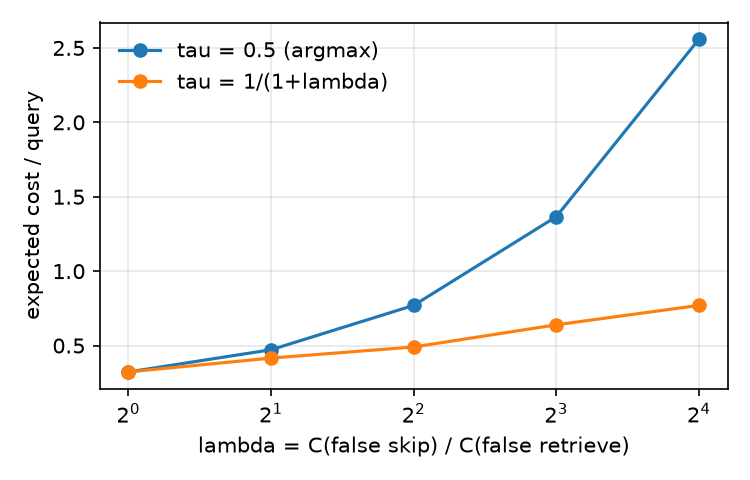
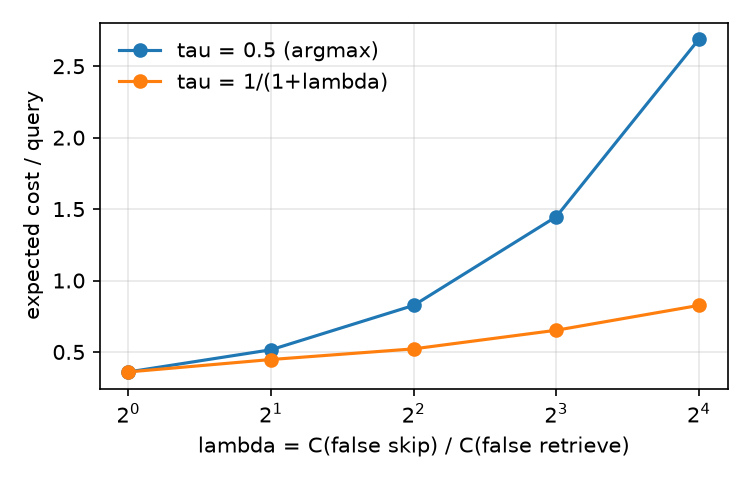
Final results: two judgments per probe, re-run arms, pairwise quality
- Labels now use the mean of two judgments for all 805 probes (judge
  self-consistency 86.3%; human vs judge kappa 0.18 -> 0.26; required 58.8%).
  Tier 1 retrained (logreg test AUC 0.671; LightGBM and no-S3 variants).
- oracle, amic and amic_lam1 re-run on the new labels (previous runs archived
  locally); memory tokens vs always: amic -54%, amic_lam1 -66%, oracle -70%.
- Pairwise judging vs always complete for amic, amic_lam1, oracle and never
  (483 comparisons each, 3 seeds). Report adds a per-route breakdown: SHALLOW is
  at parity with DEEP, SKIP loses ~70% even for oracle skips.
- judge_pairwise: raise max_tokens to 1024 (reasoning tokens truncated the JSON
  at 300) and include the raw reply in unparseable errors.

diff --git a/src/amic/eval/report.py b/src/amic/eval/report.py
@@ -500,19 +500,46 @@ def section_quality() -> str:
         )
     if not rows:
         return ""
-    return (
-        "\n".join(
-            [
-                "## 7. Response quality: pairwise LLM judge vs `always` (test split)",
-                "",
-                "Mean ± sd across tutor sampling seeds (T = 0.7). Identical answers count as ties without a "
-                "judge call. Fabrication rates are over judged (non-identical) pairs.",
-                "",
-                pd.DataFrame(rows).to_markdown(index=False),
-            ]
-        )
-        + "\n"
-    )
+    by_route = []
+    for d in sorted(Path("runs").glob("*/pairwise_vs_always.jsonl")):
+        pw = pd.read_json(d, lines=True)
+        if pw.empty or "route" not in pw:
+            continue
+        for route, g in pw.groupby("route"):
+            vc = g.result.value_counts(normalize=True)
+            by_route.append(
+                {
+                    "run": d.parent.name,
+                    "route chosen": route,
+                    "n": len(g),
+                    "win": vc.get("win", 0.0),
+                    "tie": vc.get("tie", 0.0),
+                    "loss": vc.get("loss", 0.0),
+                    "identical_to_always": g.identical.mean(),
+                }
+            )
+    lines = [
+        "## 7. Response quality: pairwise LLM judge vs `always` (test split)",
+        "",
+        "Mean ± sd across tutor sampling seeds (T = 0.7). Identical answers count as ties without a "
+        "judge call. Fabrication rates are over judged (non-identical) pairs.",
+        "",
+        pd.DataFrame(rows).to_markdown(index=False),
+    ]
+    if by_route:
+        lines += [
+            "",
+            "### By the route each run chose (all seeds pooled)",
+            "",
+            "`always` routes every query DEEP, so a DEEP choice reproduces its answer (tie). The "
+            "SHALLOW and SKIP rows are where the runs differ from `always`.",
+            "",
+            _fmt(
+                pd.DataFrame(by_route),
+                pct=["win", "tie", "loss", "identical_to_always"],
+            ),
+        ]
+    return "\n".join(lines) + "\n"
 
 
 def main() -> None:

diff --git a/scripts/judge_pairwise.py b/scripts/judge_pairwise.py
@@ -122,13 +122,13 @@ def main() -> None:
                 a=ra,
                 b=rb,
             )
+            raw = ""
             for _ in range(3):
                 try:
-                    j = json.loads(
-                        llm.chat(
-                            [{"role": "user", "content": prompt}], json_mode=True, max_tokens=300
-                        ).text
-                    )
+                    raw = llm.chat(
+                        [{"role": "user", "content": prompt}], json_mode=True, max_tokens=1024
+                    ).text
+                    j = json.loads(raw)
                     if isinstance(j, list) and len(j) == 1 and isinstance(j[0], dict):
                         j = j[0]  # the judge occasionally wraps its object in a list
                     w = str(j["winner"]).strip().upper()
@@ -138,7 +138,7 @@ def main() -> None:
                 except (ValueError, KeyError, TypeError):
                     continue
             else:
-                raise RuntimeError(f"{run} {pid}: unparseable")
+                raise RuntimeError(f"{run} {pid}: unparseable: {raw[:300]!r}")
             result = "tie" if w == "TIE" else ("win" if (w == "A") == run_is_a else "loss")
             fa, fb = bool(j.get("fabricated_A")), bool(j.get("fabricated_B"))
             return {

diff --git a/docs/results/main.md b/docs/results/main.md
@@ -4,19 +4,19 @@ _Generated by `python -m amic.eval.report`. Every number comes from this reposit
 
 Education set: 40 synthetic learners, 805 probes; split by learner ({'train': 484, 'test': 161, 'val': 160}). Counterfactual label: memory-required iff the best memory-backed answer meets the student's need better than the no-memory answer by >= 1 point (judge `needs_met`, 1-5, mean of 2 judgments; a correct generic reply to a self-contained question is not penalised).
 
-Memory-required: **64.0%** (personalisation-inclusive variant 70.2%). Depth among required: {'SHALLOW': 365, 'DEEP': 150}. Fabricated-history rate of the no-memory answer: 26.3% (SHALLOW 3.8%, DEEP 2.5%).
+Memory-required: **58.8%** (personalisation-inclusive variant 65.1%). Depth among required: {'SHALLOW': 363, 'DEEP': 110}. Fabricated-history rate of the no-memory answer: 26.2% (SHALLOW 4.0%, DEEP 2.4%).
 
 | category          |   n | required   | personal   |
 |:------------------|----:|:-----------|:-----------|
-| explicit_recall   | 160 | 90.6%      | 93.1%      |
-| general_covered   | 121 | 37.2%      | 51.2%      |
-| general_new       | 124 | 41.1%      | 50.0%      |
-| implicit_personal | 160 | 73.1%      | 76.2%      |
-| lexical_trap      |  80 | 51.2%      | 62.5%      |
-| m0_followup       |  80 | 55.0%      | 61.3%      |
-| personalize       |  80 | 90.0%      | 88.8%      |
+| explicit_recall   | 160 | 88.1%      | 91.2%      |
+| general_covered   | 121 | 27.3%      | 38.8%      |
+| general_new       | 124 | 34.7%      | 44.4%      |
+| implicit_personal | 160 | 70.0%      | 75.0%      |
+| lexical_trap      |  80 | 47.5%      | 56.2%      |
+| m0_followup       |  80 | 50.0%      | 56.2%      |
+| personalize       |  80 | 82.5%      | 82.5%      |
 
-Human vs judge labels (n=98): agreement 59.2%, Cohen's kappa **0.178**. The judge marks memory as required more often than the human annotator (67% vs 51% on the same probes). For reference, kappa human vs the generator's intended category = 0.349; judge vs intended (all 805 probes) = 0.387. Label validity is therefore moderate at best and bounds every downstream metric.
+Human vs judge labels (n=98): agreement 63.3%, Cohen's kappa **0.263**. The judge marks memory as required more often than the human annotator (59% vs 51% on the same probes). For reference, kappa human vs the generator's intended category = 0.349; judge vs intended (all 805 probes) = 0.417. Label validity is therefore moderate at best and bounds every downstream metric.
 
 ## 2. Decision quality (offline replay, education TEST split)
 
@@ -24,15 +24,15 @@ lambda = 4 (tau* = 0.20); n = 161 probes from held-out learners. `cost` = expect
 
 | policy                       | retrieval_rate   | recall   | false_skip_rate   | precision   |    f1 |   cost | savings_captured   | share_tier0   | share_tier1   | share_failopen   | depth_acc   |
 |:-----------------------------|:-----------------|:---------|:------------------|:------------|------:|-------:|:-------------------|:--------------|:--------------|:-----------------|:------------|
-| never                        | 0.0%             | 0.0%     | 100.0%            | 0.0%        | 0     |  2.46  |                    | 0.0%          | 0.0%          | 0.0%             |             |
-| always                       | 100.0%           | 100.0%   | 0.0%              | 61.5%       | 0.762 |  0.385 |                    | 0.0%          | 0.0%          | 0.0%             | 31.3%       |
-| oracle                       | 61.5%            | 100.0%   | 0.0%              | 100.0%      | 1     |  0     |                    | 0.0%          | 0.0%          | 0.0%             | 100.0%      |
-| amic (T0+T1, band->SHALLOW)  | 91.9%            | 93.9%    | 6.1%              | 62.8%       | 0.753 |  0.491 | 21.0%              | 18.0%         | 81.4%         | 0.6%             | 55.9%       |
-| amic, hard tau (no band)     | 91.9%            | 93.9%    | 6.1%              | 62.8%       | 0.753 |  0.491 | 21.0%              | 18.0%         | 82.0%         | 0.0%             | 55.9%       |
-| ablation: Tier 0 only        | 96.3%            | 96.0%    | 4.0%              | 61.3%       | 0.748 |  0.472 | 9.7%               | 18.0%         | 0.0%          | 82.0%            | 55.8%       |
-| ablation: no S3 sketch probe | 94.4%            | 94.9%    | 5.1%              | 61.8%       | 0.749 |  0.484 | 14.5%              | 18.0%         | 80.1%         | 1.9%             | 56.4%       |
-| ablation: tau fixed 0.5      | 64.0%            | 75.8%    | 24.2%             | 72.8%       | 0.743 |  0.77  | 93.5%              | 18.0%         | 64.6%         | 17.4%            | 52.0%       |
-| variant: LightGBM Tier 1     | 93.8%            | 96.0%    | 4.0%              | 62.9%       | 0.76  |  0.447 | 16.1%              | 18.0%         | 78.9%         | 3.1%             | 56.8%       |
+| never                        | 0.0%             | 0.0%     | 100.0%            | 0.0%        | 0     |  2.236 |                    | 0.0%          | 0.0%          | 0.0%             |             |
+| always                       | 100.0%           | 100.0%   | 0.0%              | 55.9%       | 0.717 |  0.441 |                    | 0.0%          | 0.0%          | 0.0%             | 22.2%       |
+| oracle                       | 55.9%            | 100.0%   | 0.0%              | 100.0%      | 1     |  0     |                    | 0.0%          | 0.0%          | 0.0%             | 100.0%      |
+| amic (T0+T1, band->SHALLOW)  | 92.5%            | 94.4%    | 5.6%              | 57.0%       | 0.711 |  0.522 | 16.9%              | 18.0%         | 51.6%         | 30.4%            | 64.7%       |
+| amic, hard tau (no band)     | 90.1%            | 93.3%    | 6.7%              | 57.9%       | 0.715 |  0.528 | 22.5%              | 18.0%         | 82.0%         | 0.0%             | 65.5%       |
+| ablation: Tier 0 only        | 96.3%            | 95.6%    | 4.4%              | 55.5%       | 0.702 |  0.528 | 8.5%               | 18.0%         | 0.0%          | 82.0%            | 65.1%       |
+| ablation: no S3 sketch probe | 91.9%            | 94.4%    | 5.6%              | 57.4%       | 0.714 |  0.516 | 18.3%              | 18.0%         | 60.2%         | 21.7%            | 65.9%       |
+| ablation: tau fixed 0.5      | 60.9%            | 72.2%    | 27.8%             | 66.3%       | 0.691 |  0.826 | 88.7%              | 18.0%         | 74.5%         | 7.5%             | 58.5%       |
+| variant: LightGBM Tier 1     | 95.7%            | 95.6%    | 4.4%              | 55.8%       | 0.705 |  0.522 | 9.9%               | 18.0%         | 48.4%         | 33.5%            | 65.1%       |
 
 ### LoCoMo (external check, n = 347; Tier 1 trained on the education set only)
 
@@ -48,7 +48,7 @@ Category 5 (adversarial) is used as a weak memory-not-required analogue; reporte
 | ablation: Tier 0 only        | 100.0%           | 100.0%   | 0.0%              | 77.8%       |  0.222 |
 | ablation: no S3 sketch probe | 100.0%           | 100.0%   | 0.0%              | 77.8%       |  0.222 |
 | ablation: tau fixed 0.5      | 100.0%           | 100.0%   | 0.0%              | 77.8%       |  0.222 |
-| variant: LightGBM Tier 1     | 99.7%            | 99.6%    | 0.4%              | 77.7%       |  0.233 |
+| variant: LightGBM Tier 1     | 100.0%           | 100.0%   | 0.0%              | 77.8%       |  0.222 |
 
 ## 3. Cost-sensitive thresholding: lambda sweep (test split)
 
@@ -56,16 +56,16 @@ Same calibrated Tier-1 model; only the threshold rule changes. Lower cost is bet
 
 |   lambda | tau          |   tau_value | retrieval_rate   | false_skip_rate   |   cost |
 |---------:|:-------------|------------:|:-----------------|:------------------|-------:|
-|        1 | 1/(1+lambda) |       0.5   | 64.0%            | 24.2%             |  0.323 |
-|        1 | 0.5 (argmax) |       0.5   | 64.0%            | 24.2%             |  0.323 |
-|        2 | 1/(1+lambda) |       0.333 | 91.9%            | 6.1%              |  0.416 |
-|        2 | 0.5 (argmax) |       0.5   | 64.0%            | 24.2%             |  0.472 |
-|        4 | 1/(1+lambda) |       0.2   | 91.9%            | 6.1%              |  0.491 |
-|        4 | 0.5 (argmax) |       0.5   | 64.0%            | 24.2%             |  0.77  |
-|        8 | 1/(1+lambda) |       0.111 | 91.9%            | 6.1%              |  0.64  |
-|        8 | 0.5 (argmax) |       0.5   | 64.0%            | 24.2%             |  1.366 |
-|       16 | 1/(1+lambda) |       0.059 | 96.3%            | 4.0%              |  0.77  |
-|       16 | 0.5 (argmax) |       0.5   | 64.0%            | 24.2%             |  2.559 |
+|        1 | 1/(1+lambda) |       0.5   | 60.9%            | 27.8%             |  0.36  |
+|        1 | 0.5 (argmax) |       0.5   | 60.9%            | 27.8%             |  0.36  |
+|        2 | 1/(1+lambda) |       0.333 | 89.4%            | 6.7%              |  0.447 |
+|        2 | 0.5 (argmax) |       0.5   | 60.9%            | 27.8%             |  0.516 |
+|        4 | 1/(1+lambda) |       0.2   | 92.5%            | 5.6%              |  0.522 |
+|        4 | 0.5 (argmax) |       0.5   | 60.9%            | 27.8%             |  0.826 |
+|        8 | 1/(1+lambda) |       0.111 | 93.2%            | 5.6%              |  0.652 |
+|        8 | 0.5 (argmax) |       0.5   | 60.9%            | 27.8%             |  1.447 |
+|       16 | 1/(1+lambda) |       0.059 | 96.3%            | 4.4%              |  0.826 |
+|       16 | 0.5 (argmax) |       0.5   | 60.9%            | 27.8%             |  2.689 |
 
 ![lambda sweep](fig_lambda_sweep.png)
 
@@ -73,13 +73,13 @@ Same calibrated Tier-1 model; only the threshold rule changes. Lower cost is bet
 
 | model       |   n_test |   auc |   brier |   ece |
 |:------------|---------:|------:|--------:|------:|
-| tier1       |      132 | 0.714 |   0.22  | 0.06  |
-| tier1_no_s3 |      132 | 0.732 |   0.216 | 0.12  |
-| tier1_lgbm  |      132 | 0.672 |   0.226 | 0.107 |
+| tier1       |      132 | 0.671 |   0.237 | 0.116 |
+| tier1_no_s3 |      132 | 0.708 |   0.23  | 0.137 |
+| tier1_lgbm  |      132 | 0.682 |   0.221 | 0.039 |
 
 ![reliability](fig_reliability.png)
 
-Largest standardized LogReg coefficients: `s4_concept_hits` -0.70, `x_affinity_personal` +0.45, `s2_m0_turns` -0.45, `x_general_no_personal` -0.32, `s4_concept_frac` +0.30, `s1_possessive` -0.29, `s3_margin` +0.26, `s1_request_plan` +0.21
+Largest standardized LogReg coefficients: `s4_concept_hits` -0.62, `s2_m0_turns` -0.54, `x_affinity_personal` +0.43, `s2_n_sessions_log` -0.43, `s2_n_memories_log` +0.27, `x_general_no_personal` -0.26, `s1_deixis` +0.21, `s1_possessive` -0.19
 
 ## 5. Efficiency (live runs, test split, all seeds)
 
@@ -88,10 +88,10 @@ Milliseconds. `gate` = signals + Tier 0 + Tier 1 (excludes the query embedding, 
 | arm       |   n | retrieval_rate   |   prompt_tokens |   memory_tokens |   embed_p50 |   gate_p50 |   gate_p95 |   retrieval_p50 |   prefill_mean |   total_p50 |   total_p95 |   mem_tok_saved_vs_always |   mem_prefill_uncached_est |
 |:----------|----:|:-----------------|----------------:|----------------:|------------:|-----------:|-----------:|----------------:|---------------:|------------:|------------:|--------------------------:|---------------------------:|
 | always    | 483 | 100.0%           |           906.8 |           800   |         7.8 |        0   |        0   |             3.1 |           70.4 |      2691.7 |      5409.7 |                       0   |                      238.9 |
-| amic      | 483 | 91.9%            |           505.5 |           385.3 |         6.8 |        2   |        3.1 |             2.6 |           61.3 |      2614.7 |      4588.9 |                     414.6 |                      115.1 |
-| amic_lam1 | 483 | 64.0%            |           411.1 |           290.5 |         5.5 |        1.8 |        2.1 |             2   |           51.3 |      2554   |      4298.5 |                     509.5 |                       86.8 |
+| amic      | 483 | 92.5%            |           489.7 |           368.7 |         6.8 |        2.1 |        3.3 |             2.7 |           61.1 |      2584.4 |      4539.1 |                     431.3 |                      110.1 |
+| amic_lam1 | 483 | 60.9%            |           389.2 |           268.7 |         8.3 |        3   |        3.4 |             2.4 |           49   |      2588.8 |      4359   |                     531.3 |                       80.2 |
 | never     | 483 | 0.0%             |           125.6 |             0   |         0   |        0   |        0   |             0   |           28.2 |      2717.9 |      4480.2 |                     800   |                        0   |
-| oracle    | 483 | 61.5%            |           409   |           289.9 |         6.1 |        0   |        0   |             2.4 |           47.9 |      2569.6 |      4430.1 |                     510   |                       86.6 |
+| oracle    | 483 | 55.9%            |           359.8 |           239   |         6.6 |        0   |        0   |             2.3 |           47.8 |      2571.6 |      4353.5 |                     561   |                       71.4 |
 
 **Prefill caveat.** Measured prefill is nearly flat across arms (the `always` arm sends ~6x the prompt tokens of `never` at similar prefill) because Ollama reuses cached prompt prefixes: each synthetic learner has only a handful of history records, so DEEP retrieval returns an almost identical memory block on every query from that learner. Real deployments with larger, more varied memories would cache less. `mem_prefill_uncached_est` = memory tokens x 0.299 ms/token, the uncached prefill rate measured by the Day-1 probe (nonce-first prompts, `runs/probe.json`). Token counts are unaffected by caching and are the primary efficiency metric.
 
@@ -103,44 +103,64 @@ C_emb cancels (both arms embed the query once; plan R1). Tier 2 and escalation a
 
 | term                                               |    value |
 |:---------------------------------------------------|---------:|
-| C_feat (signals, excl. embedding)                  |   0.3114 |
-| C_T0                                               |   0.0047 |
+| C_feat (signals, excl. embedding)                  |   0.3451 |
+| C_T0                                               |   0.0049 |
 | P(T1)                                              |   0.8199 |
-| C_T1 (when fired)                                  |   1.9414 |
+| C_T1 (when fired)                                  |   2.176  |
 | P(T2), P(esc)                                      |   0      |
-| r (retrieval rate)                                 |   0.9193 |
-| memory tokens saved / query (vs always)            | 414.621  |
-| store ms saved / query                             |   0.6383 |
-| prefill ms saved / query (measured, prompt-cached) |   9.125  |
-| LHS: gate overhead per query (ms)                  |   1.9078 |
-| RHS measured: store + prefill saved (ms)           |   9.7633 |
-| RHS uncached estimate: store + tokens x rate (ms)  | 124.474  |
+| r (retrieval rate)                                 |   0.9255 |
+| memory tokens saved / query (vs always)            | 431.311  |
+| store ms saved / query                             |   0.6072 |
+| prefill ms saved / query (measured, prompt-cached) |   9.3732 |
+| LHS: gate overhead per query (ms)                  |   2.1341 |
+| RHS measured: store + prefill saved (ms)           |   9.9803 |
+| RHS uncached estimate: store + tokens x rate (ms)  | 129.427  |
 
-**`amic`: measured: 1.908 ms overhead vs 9.8 ms saved (holds); uncached estimate: 124.5 ms saved (holds).** End-to-end p50 total 2615 ms vs always 2692 ms; mean prompt tokens 505 vs 907.
+**`amic`: measured: 2.134 ms overhead vs 10.0 ms saved (holds); uncached estimate: 129.4 ms saved (holds).** End-to-end p50 total 2584 ms vs always 2692 ms; mean prompt tokens 490 vs 907.
 
 ### amic_lam1
 
 | term                                               |    value |
 |:---------------------------------------------------|---------:|
-| C_feat (signals, excl. embedding)                  |   0.2622 |
-| C_T0                                               |   0.0037 |
+| C_feat (signals, excl. embedding)                  |   0.3874 |
+| C_T0                                               |   0.0053 |
 | P(T1)                                              |   0.8199 |
-| C_T1 (when fired)                                  |   1.6196 |
+| C_T1 (when fired)                                  |   2.5214 |
 | P(T2), P(esc)                                      |   0      |
-| r (retrieval rate)                                 |   0.6398 |
-| memory tokens saved / query (vs always)            | 509.478  |
-| store ms saved / query                             |   1.6047 |
-| prefill ms saved / query (measured, prompt-cached) |  19.1025 |
-| LHS: gate overhead per query (ms)                  |   1.5938 |
-| RHS measured: store + prefill saved (ms)           |  20.7073 |
-| RHS uncached estimate: store + tokens x rate (ms)  | 153.771  |
+| r (retrieval rate)                                 |   0.6087 |
+| memory tokens saved / query (vs always)            | 531.298  |
+| store ms saved / query                             |   1.4491 |
+| prefill ms saved / query (measured, prompt-cached) |  21.4398 |
+| LHS: gate overhead per query (ms)                  |   2.4599 |
+| RHS measured: store + prefill saved (ms)           |  22.8889 |
+| RHS uncached estimate: store + tokens x rate (ms)  | 160.133  |
 
-**`amic_lam1`: measured: 1.594 ms overhead vs 20.7 ms saved (holds); uncached estimate: 153.8 ms saved (holds).** End-to-end p50 total 2554 ms vs always 2692 ms; mean prompt tokens 411 vs 907.
+**`amic_lam1`: measured: 2.460 ms overhead vs 22.9 ms saved (holds); uncached estimate: 160.1 ms saved (holds).** End-to-end p50 total 2589 ms vs always 2692 ms; mean prompt tokens 389 vs 907.
 
 ## 7. Response quality: pairwise LLM judge vs `always` (test split)
 
 Mean ± sd across tutor sampling seeds (T = 0.7). Identical answers count as ties without a judge call. Fabrication rates are over judged (non-identical) pairs.
 
-| run   |   n |   seeds | win          | tie          | loss         | identical_to_always   | fabricated (run)   | fabricated (always)   |
-|:------|----:|--------:|:-------------|:-------------|:-------------|:----------------------|:-------------------|:----------------------|
-| amic  |  21 |       1 | 52.4% ± 0.0% | 23.8% ± 0.0% | 23.8% ± 0.0% | 19.0%                 | 5.9%               | 5.9%                  |
+| run       |   n |   seeds | win          | tie          | loss         | identical_to_always   | fabricated (run)   | fabricated (always)   |
+|:----------|----:|--------:|:-------------|:-------------|:-------------|:----------------------|:-------------------|:----------------------|
+| amic      | 483 |       3 | 34.8% ± 2.7% | 23.6% ± 1.2% | 41.6% ± 1.9% | 16.4%                 | 6.9%               | 5.4%                  |
+| amic_lam1 | 483 |       3 | 27.3% ± 3.5% | 25.9% ± 2.5% | 46.8% ± 3.1% | 16.4%                 | 12.6%              | 5.0%                  |
+| never     | 483 |       3 | 15.1% ± 3.2% | 6.8% ± 1.1%  | 78.1% ± 4.2% | 0.0%                  | 28.8%              | 2.9%                  |
+| oracle    | 483 |       3 | 30.0% ± 1.6% | 21.5% ± 0.4% | 48.4% ± 1.2% | 12.6%                 | 10.9%              | 5.0%                  |
+
+### By the route each run chose (all seeds pooled)
+
+`always` routes every query DEEP, so a DEEP choice reproduces its answer (tie). The SHALLOW and SKIP rows are where the runs differ from `always`.
+
+| run       | route chosen   |   n | win   | tie    | loss   | identical_to_always   |
+|:----------|:---------------|----:|:------|:-------|:-------|:----------------------|
+| amic      | DEEP           |  78 | 0.0%  | 100.0% | 0.0%   | 100.0%                |
+| amic      | SHALLOW        | 369 | 44.2% | 8.7%   | 47.2%  | 0.3%                  |
+| amic      | SKIP           |  36 | 13.9% | 11.1%  | 75.0%  | 0.0%                  |
+| amic_lam1 | DEEP           |  78 | 0.0%  | 100.0% | 0.0%   | 100.0%                |
+| amic_lam1 | SHALLOW        | 216 | 44.9% | 10.6%  | 44.4%  | 0.5%                  |
+| amic_lam1 | SKIP           | 189 | 18.5% | 12.7%  | 68.8%  | 0.0%                  |
+| never     | SKIP           | 483 | 15.1% | 6.8%   | 78.1%  | 0.0%                  |
+| oracle    | DEEP           |  60 | 0.0%  | 100.0% | 0.0%   | 100.0%                |
+| oracle    | SHALLOW        | 210 | 48.6% | 9.5%   | 41.9%  | 0.5%                  |
+| oracle    | SKIP           | 213 | 20.2% | 11.3%  | 68.5%  | 0.0%                  |
